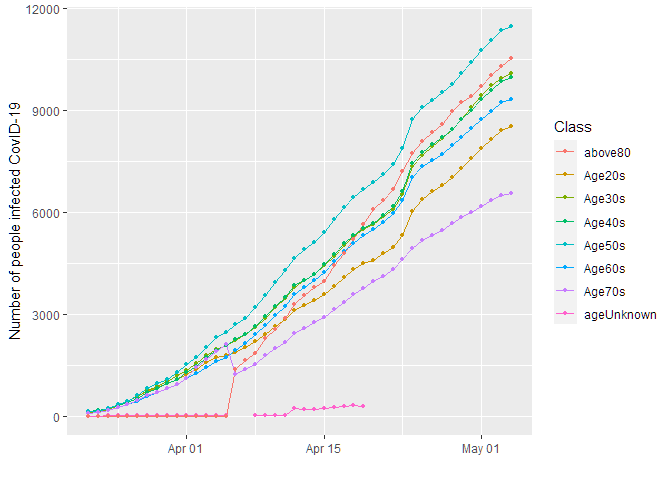
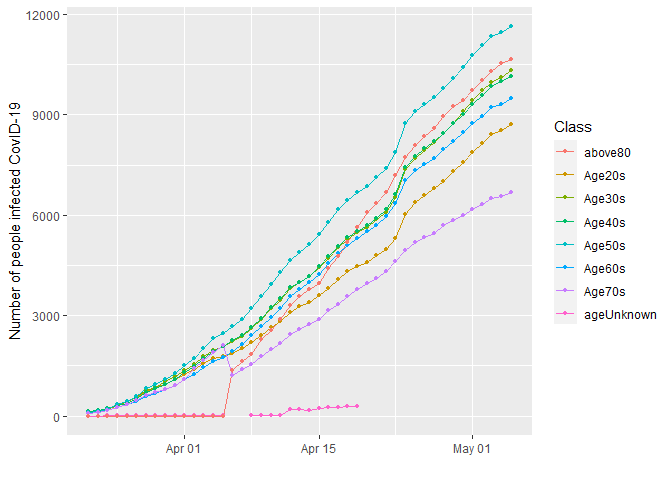
5/5/2020

diff --git a/Report_MA.md b/Report_MA.md
@@ -24,17 +24,17 @@ positive. Here are the distribution by county:
 
 By gender:
 
-    ## Warning: Removed 8 row(s) containing missing values (geom_path).
+    ## Warning: Removed 9 row(s) containing missing values (geom_path).
 
-    ## Warning: Removed 12 rows containing missing values (geom_point).
+    ## Warning: Removed 13 rows containing missing values (geom_point).
 
 ![](Report_MA_files/figure-gfm/unnamed-chunk-2-1.png)<!-- -->
 
 Whether the patient is treated in hospital:
 
-    ## Warning: Removed 42 row(s) containing missing values (geom_path).
+    ## Warning: Removed 44 row(s) containing missing values (geom_path).
 
-    ## Warning: Removed 48 rows containing missing values (geom_point).
+    ## Warning: Removed 50 rows containing missing values (geom_point).
 
 ![](Report_MA_files/figure-gfm/unnamed-chunk-3-1.png)<!-- -->
 
